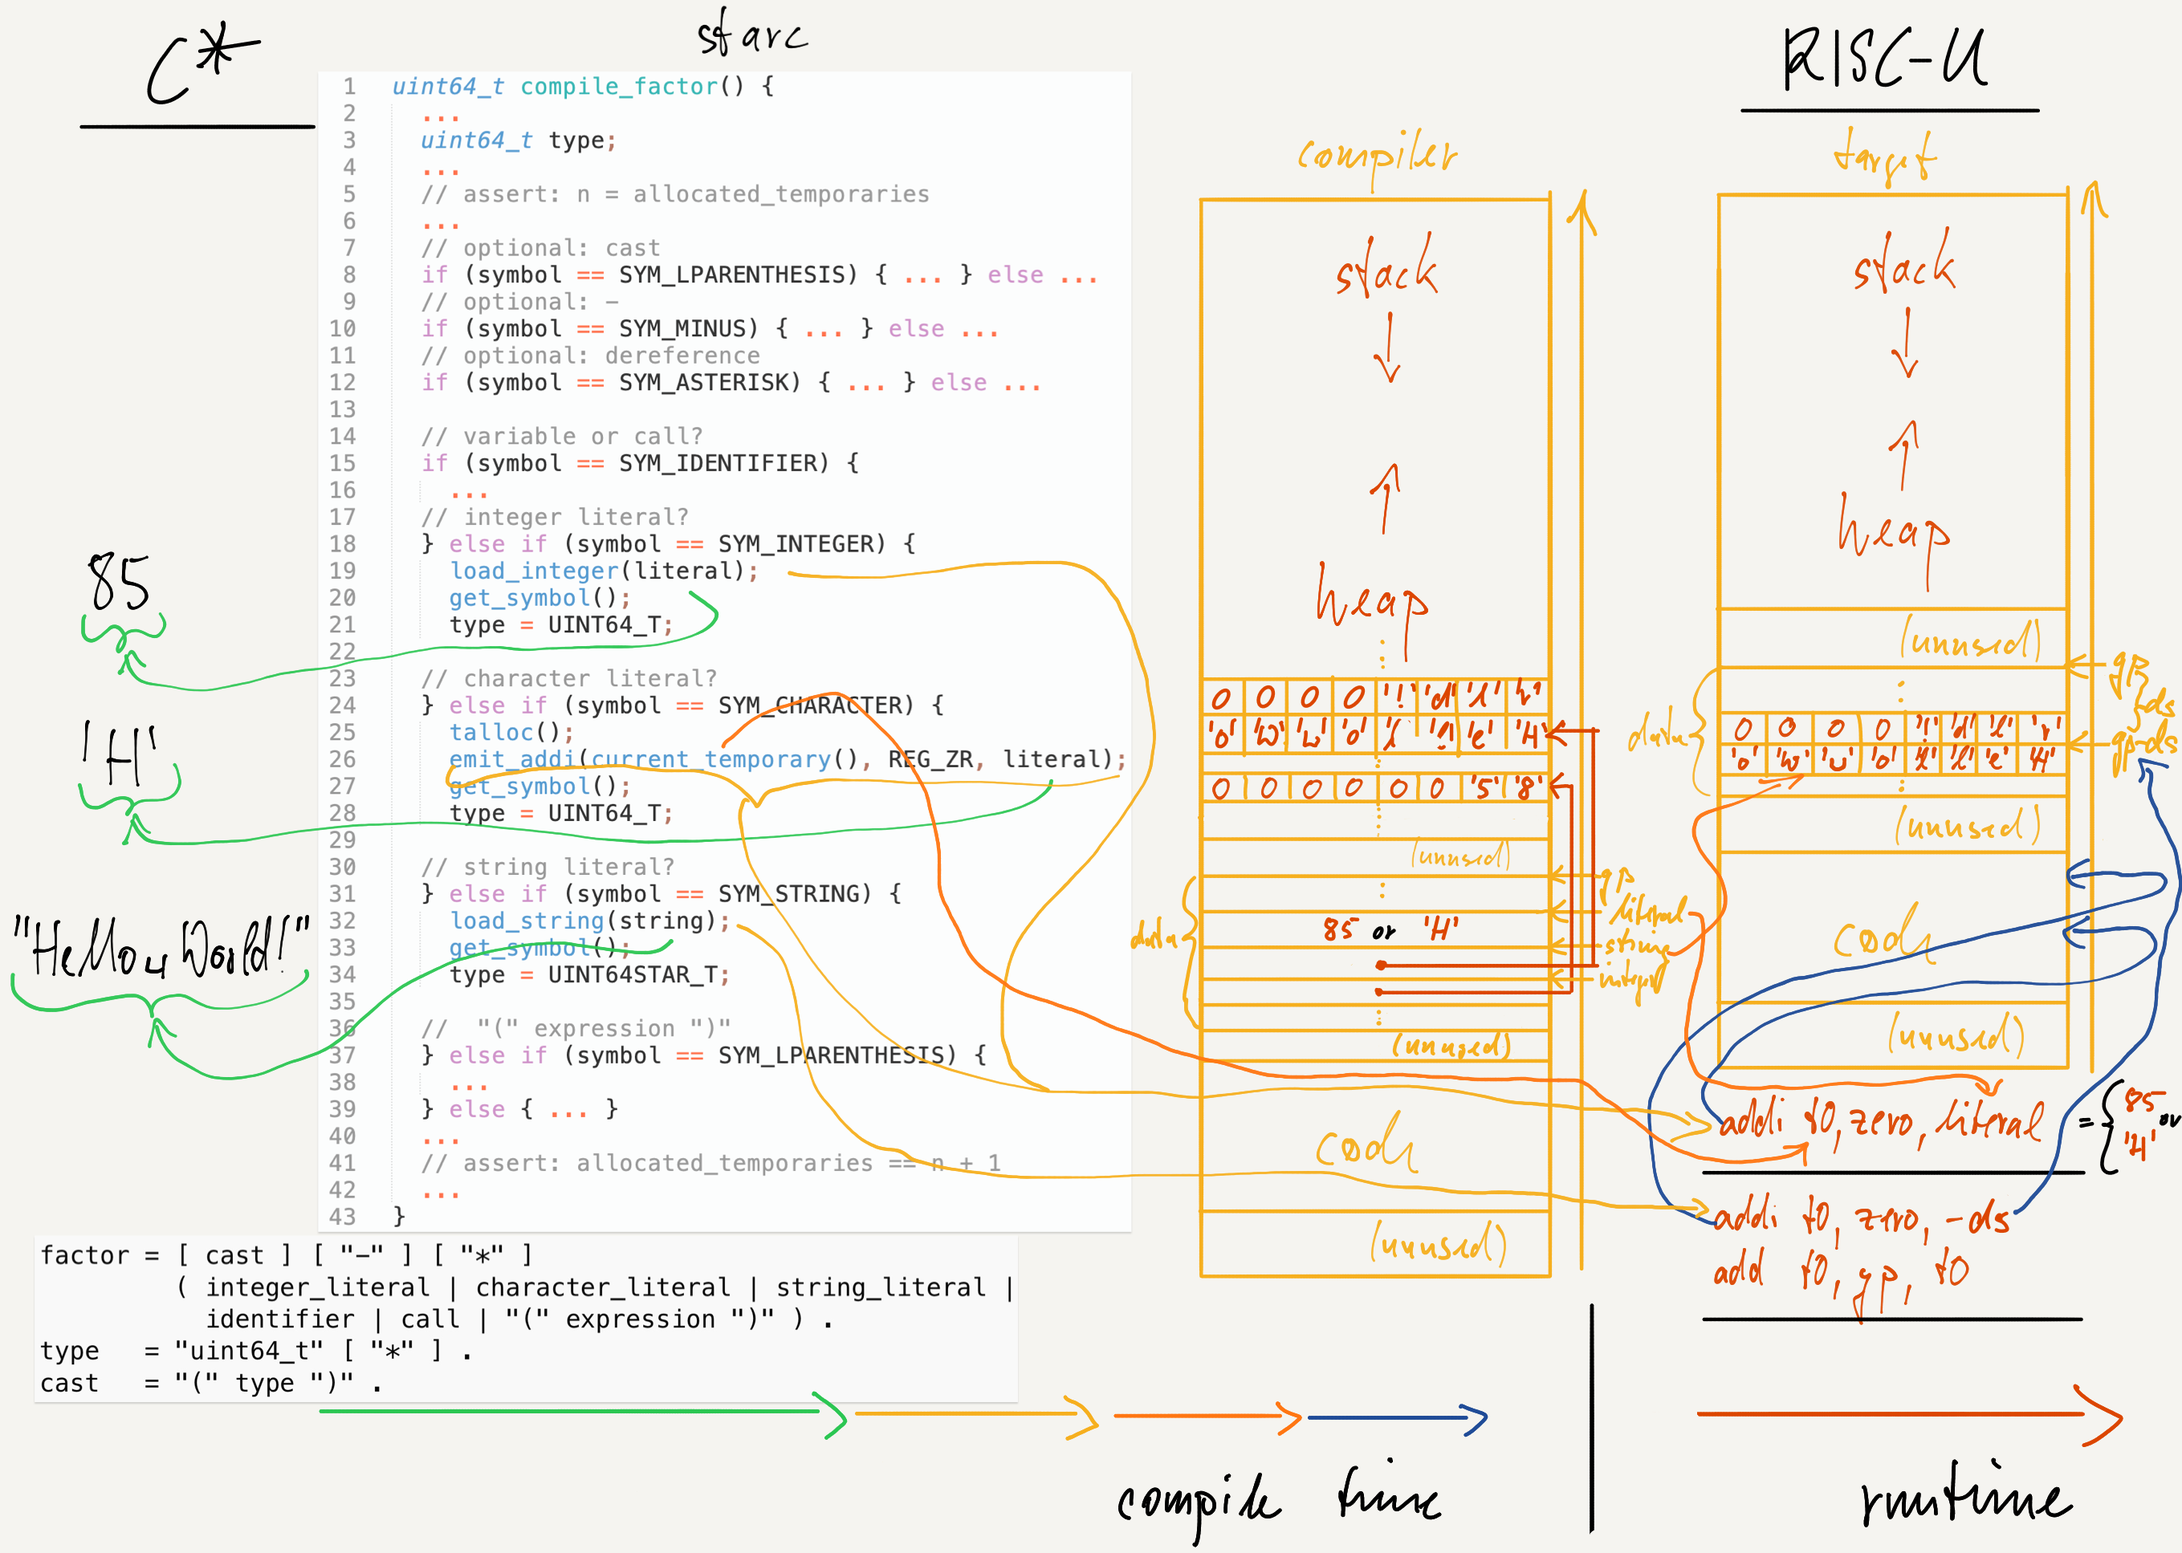
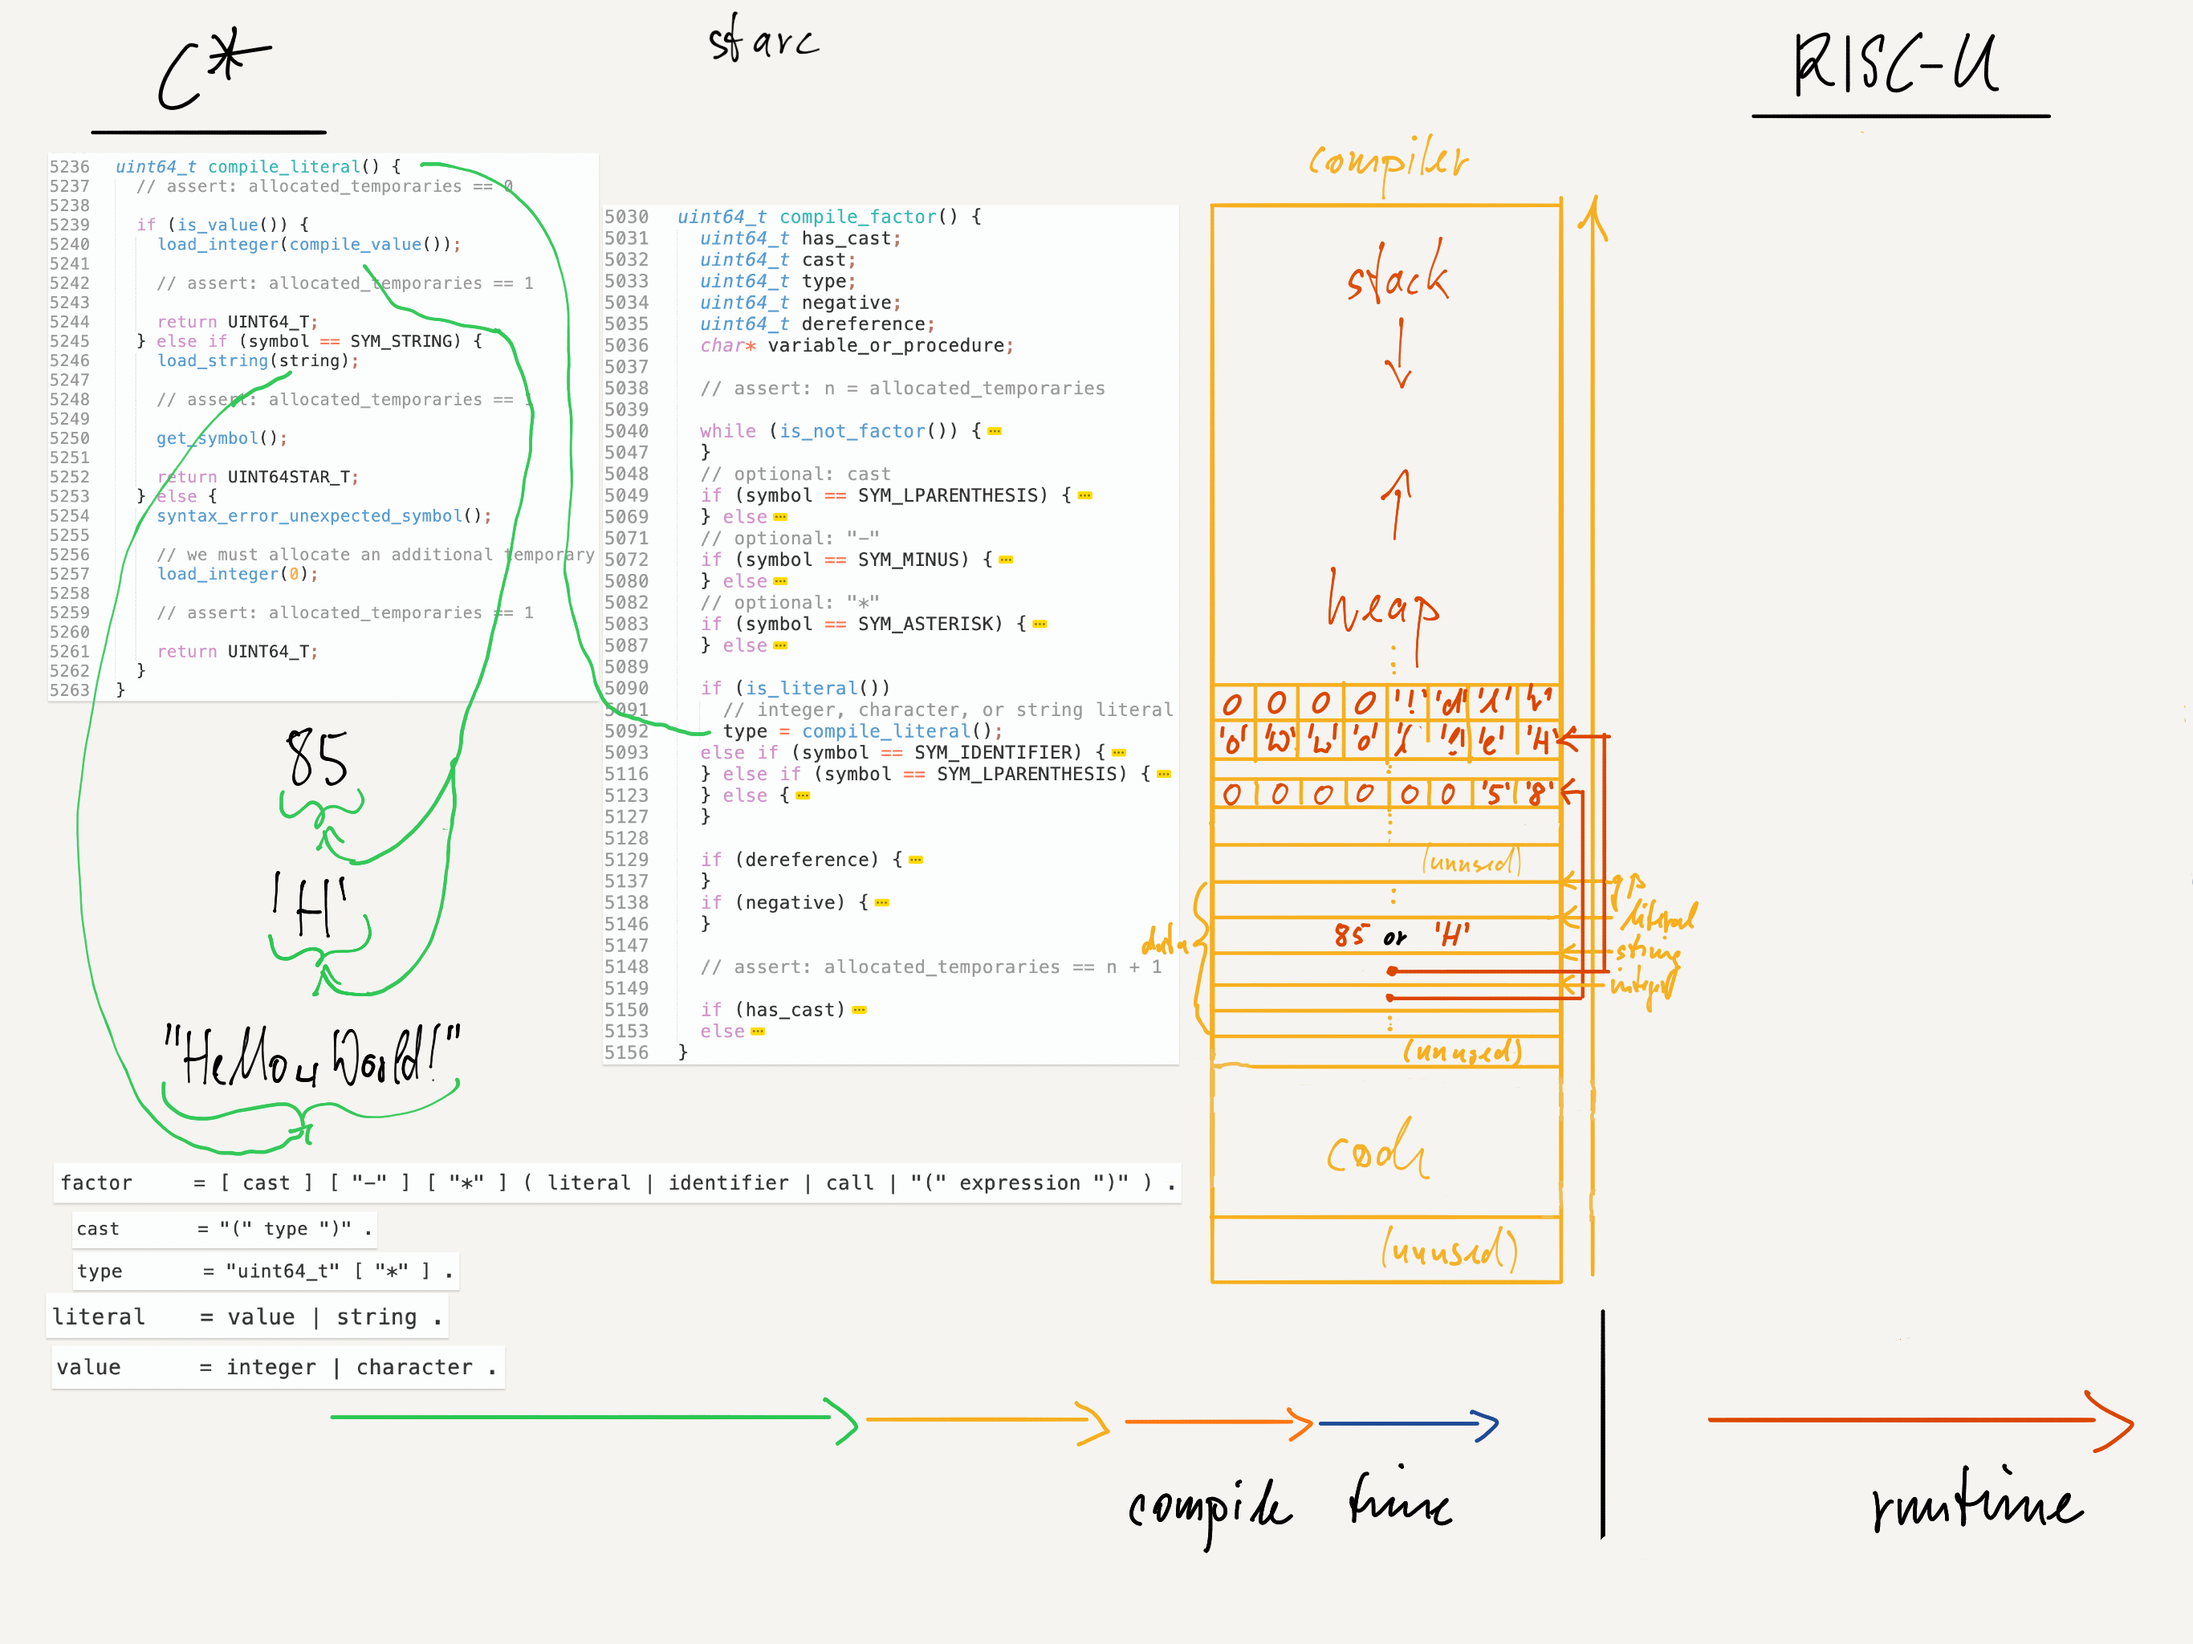
Parsing and emitting literals

diff --git a/README.md b/README.md
@@ -3694,6 +3694,8 @@ Scanning is easier than parsing, so we begin with that.
 
 ![Parsing Literals](figures/parsing-literals.png "Parsing Literals")
 
+![Emitting Literals](figures/emitting-literals.png "Emitting Literals")
+
 ![Scanning Identifiers](figures/scanning-identifiers.png "Scanning Identifiers")
 
 ![Scanner](figures/scanner.png "Scanner")
